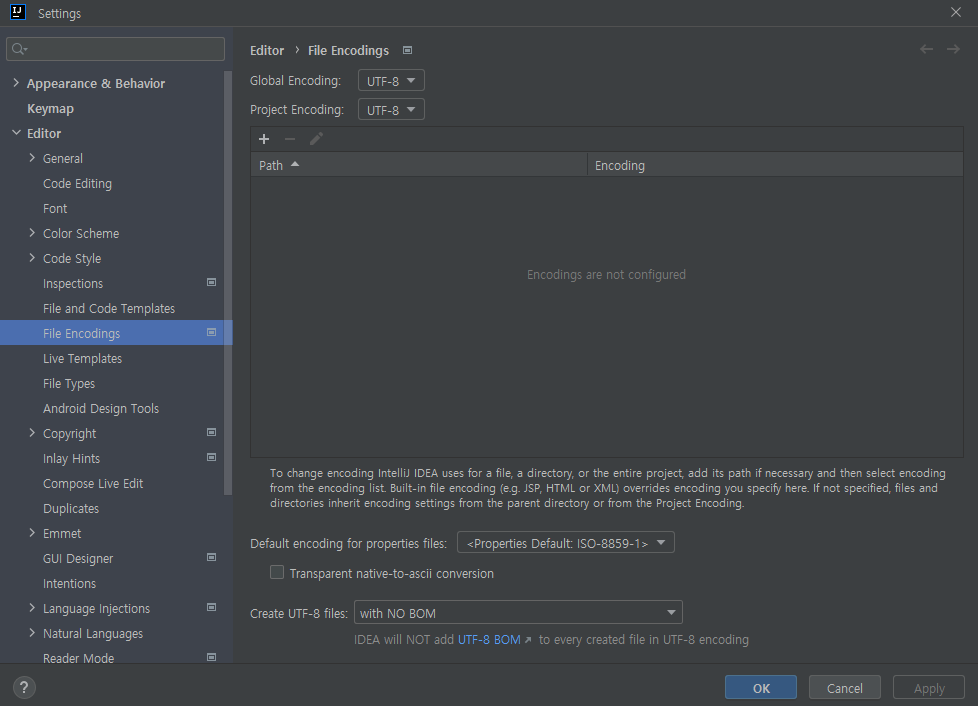
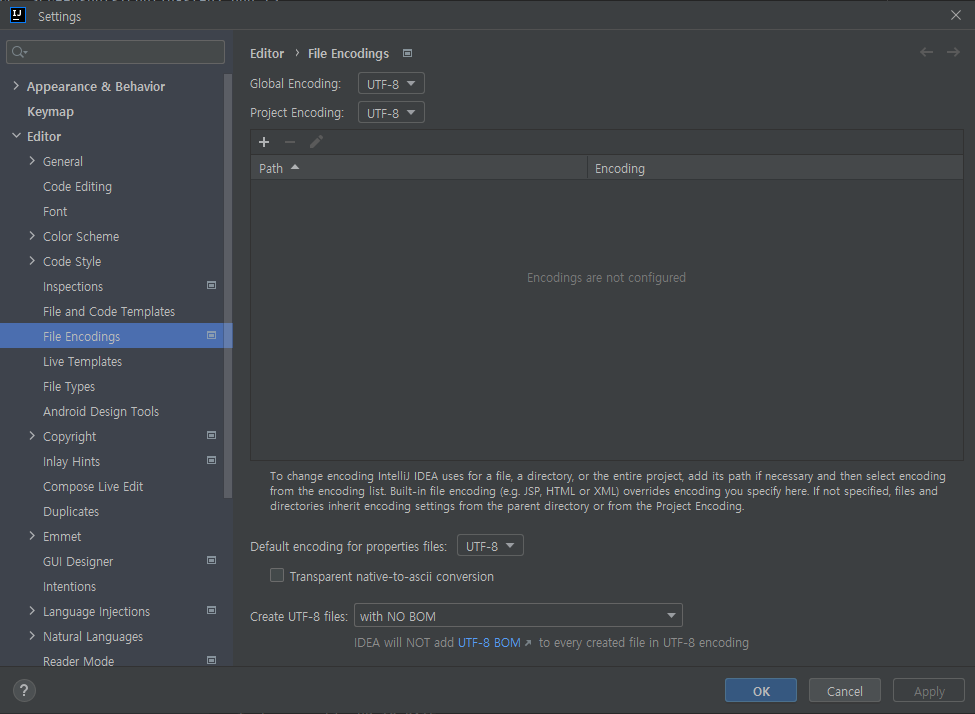
README 수정

diff --git a/README.md b/README.md
@@ -28,7 +28,7 @@
 2. 아래 이미지를 참고하여 설정값을 변경합니다.  
    <img src="Screenshots/gradle-config-step1.png"/>  
 3. 설정이 완료되면 저장 후 Configuration창을 닫습니다.  
-4. 좌측 상단 'File > Settings > Editor > File Encodings'에서 Global Encoding과 Project Encoding이 모두 UTF-8로 되어 있는지 확인 후, UTF-8이 아니라면 UTF-8로 변경합니다. (코드에 한글 주석이 있기 때문에 필요한 과정입니다.)  
+4. 좌측 상단 'File > Settings > Editor > File Encodings'에서 Global Encoding과 Project Encoding, Default Encoding이 모두 UTF-8로 되어 있는지 확인 후, UTF-8이 아니라면 UTF-8로 변경합니다. (코드에 한글 주석이 있기 때문에 필요한 과정입니다.)  
    <img src="Screenshots/file-encoding.png"/>  
 5. 설정을 마친 후, 우측 상단에서 Run 버튼을 눌러 gradle 빌드를 실행합니다.  
    <img src="Screenshots/gradle-config-step1half.png"/>  
